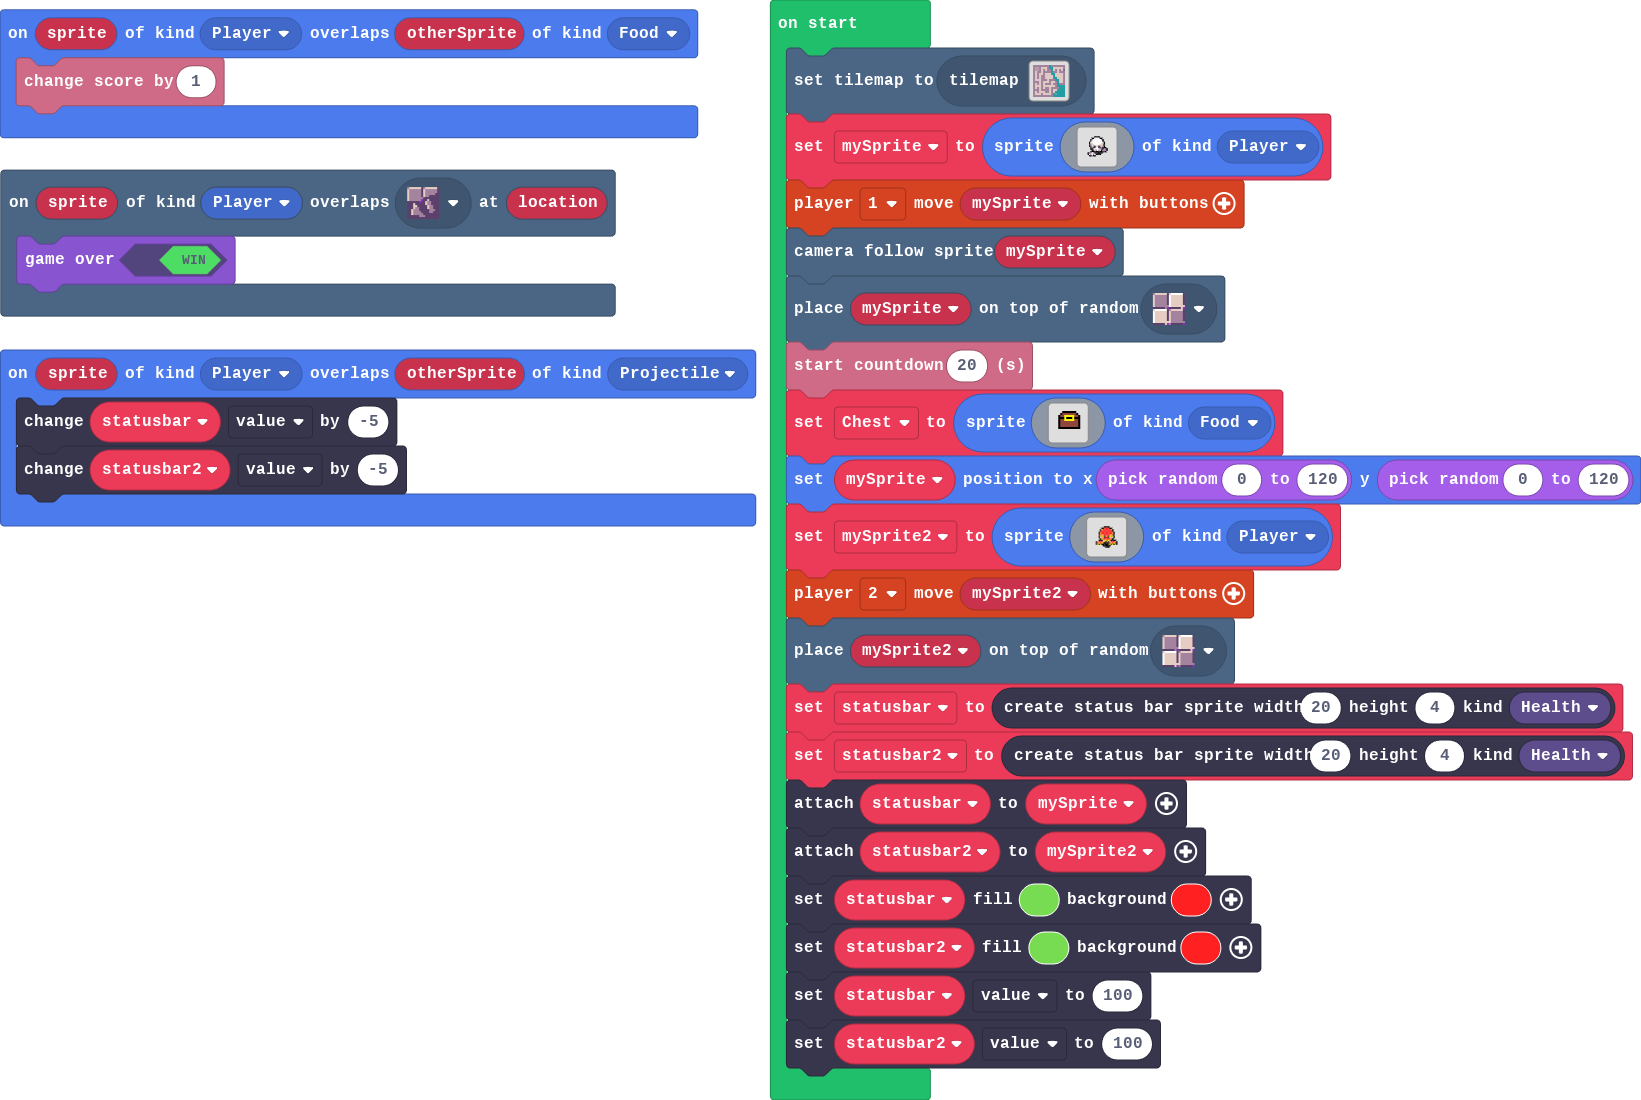
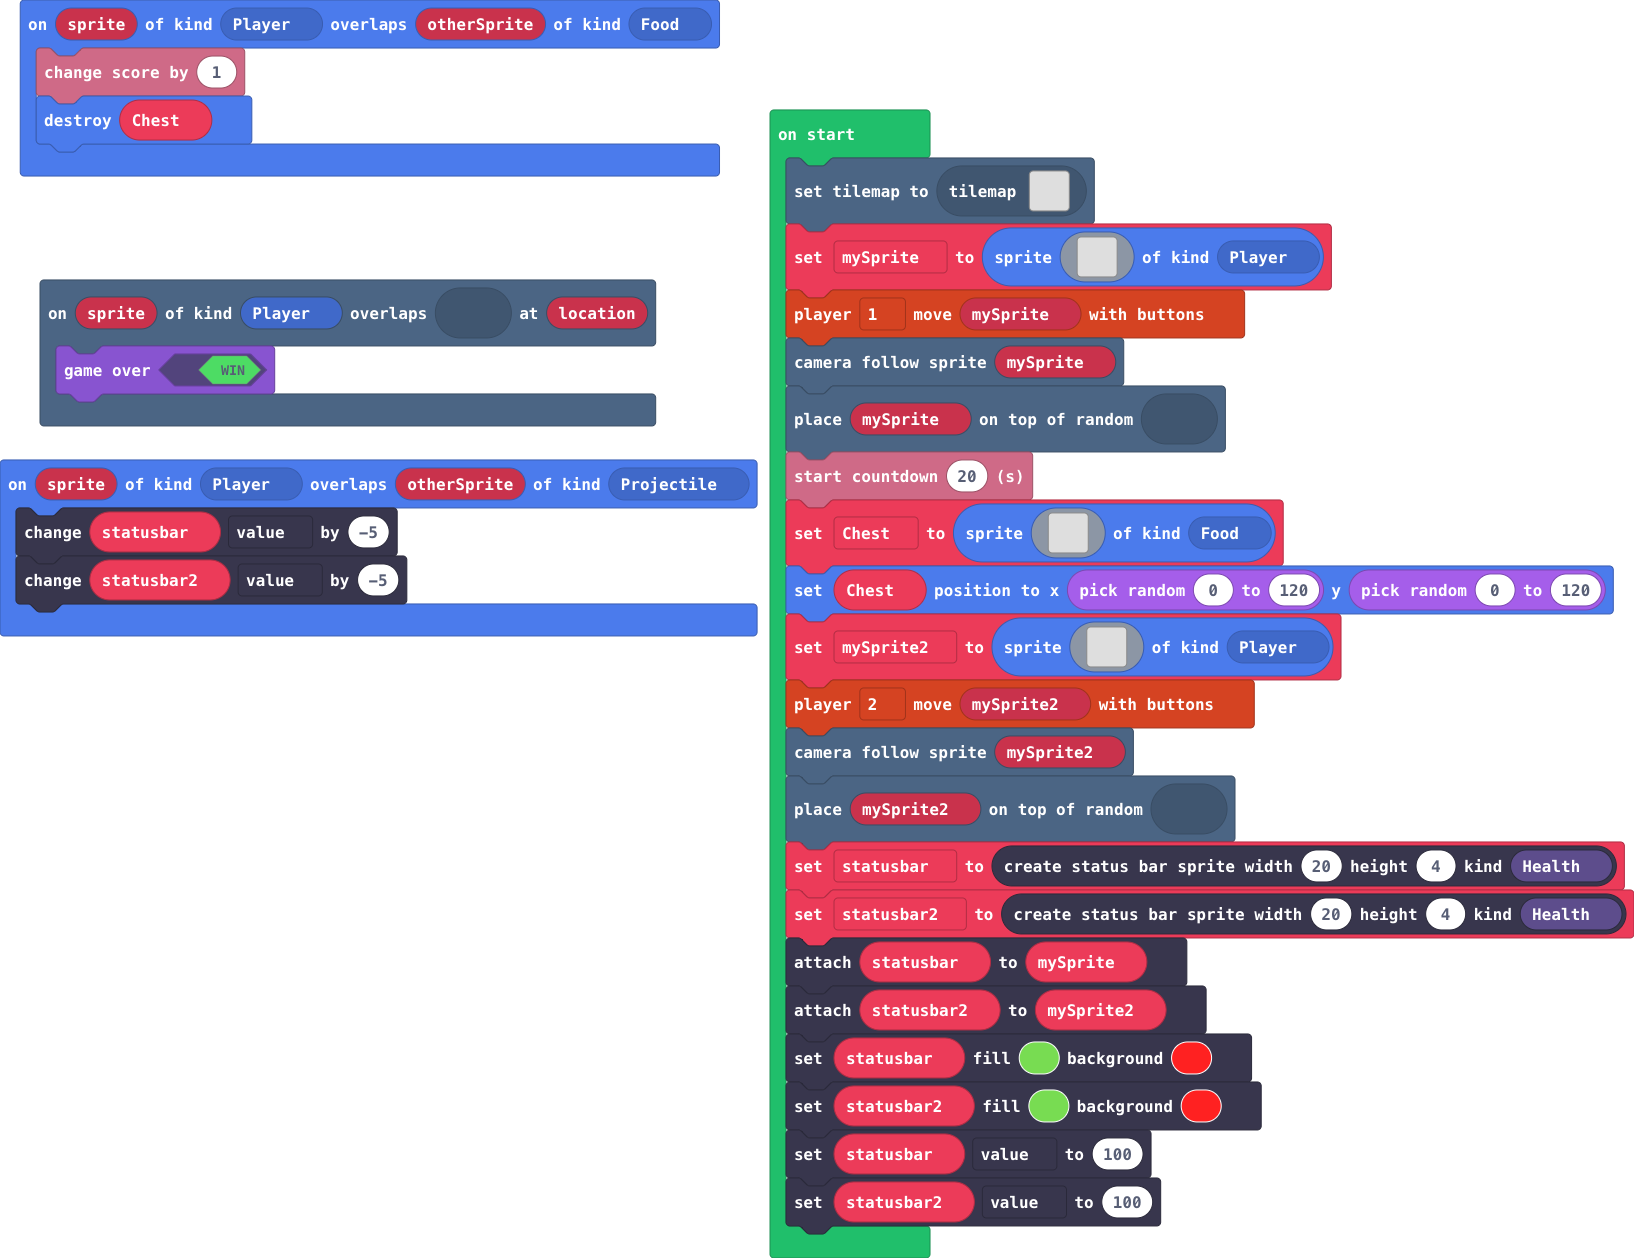
Update main.blocks, main.ts

diff --git a/main.ts b/main.ts
@@ -4,12 +4,14 @@ sprites.onOverlap(SpriteKind.Player, SpriteKind.Projectile, function (sprite, ot
 })
 sprites.onOverlap(SpriteKind.Player, SpriteKind.Food, function (sprite, otherSprite) {
     info.changeScoreBy(1)
+    sprites.destroy(Chest)
 })
 scene.onOverlapTile(SpriteKind.Player, sprites.dungeon.floorDark3, function (sprite, location) {
     game.gameOver(true)
 })
 let statusbar2: StatusBarSprite = null
 let statusbar: StatusBarSprite = null
+let Chest: Sprite = null
 tiles.setCurrentTilemap(tilemap`level3`)
 let mySprite = sprites.create(img`
     ........................
@@ -41,7 +43,7 @@ controller.player1.moveSprite(mySprite)
 scene.cameraFollowSprite(mySprite)
 tiles.placeOnRandomTile(mySprite, sprites.dungeon.floorMixed)
 info.startCountdown(20)
-let Chest = sprites.create(img`
+Chest = sprites.create(img`
     . . . . . . . . . . . . . . . . 
     . . . . . . . . . . . . . . . . 
     . . . . . f f f f f f f . . . . 
@@ -59,7 +61,7 @@ let Chest = sprites.create(img`
     . . . . . . . . . . . . . . . . 
     . . . . . . . . . . . . . . . . 
     `, SpriteKind.Food)
-mySprite.setPosition(randint(0, 120), randint(0, 120))
+Chest.setPosition(randint(0, 120), randint(0, 120))
 let mySprite2 = sprites.create(img`
     ........................
     ........................
@@ -87,6 +89,7 @@ let mySprite2 = sprites.create(img`
     ........................
     `, SpriteKind.Player)
 controller.player2.moveSprite(mySprite2)
+scene.cameraFollowSprite(mySprite2)
 tiles.placeOnRandomTile(mySprite2, sprites.dungeon.floorMixed)
 statusbar = statusbars.create(20, 4, StatusBarKind.Health)
 statusbar2 = statusbars.create(20, 4, StatusBarKind.Health)
